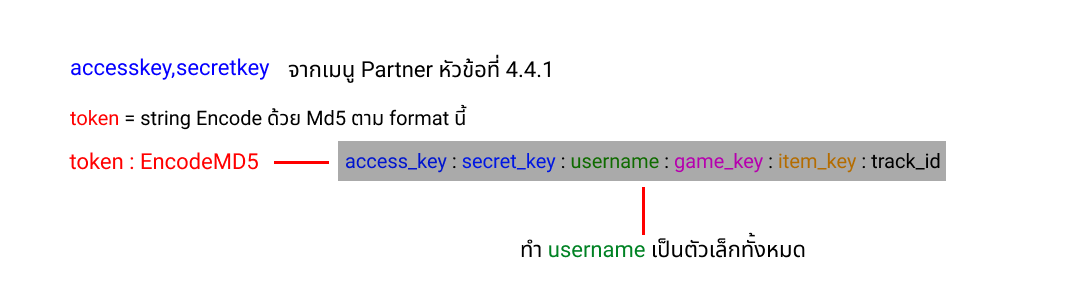
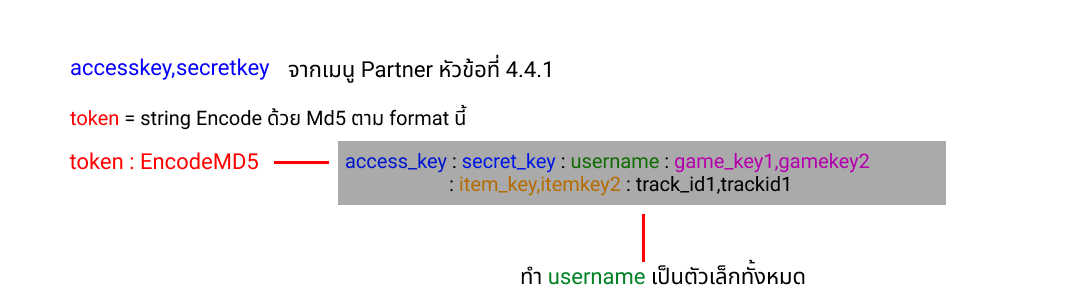
DROP

Changed region(s): [[0.3099, 0.5, 0.8986, 0.6765], [0.4648, 0.7647, 0.7746, 0.9412]]

diff --git a/seamlessapi.php b/seamlessapi.php
@@ -825,6 +825,246 @@
                         </div>
                     </div>
                     <div class="pb-5"></div>
+                    <div class="col-12" id="tabTenMulti" style="margin-left: 10px;">
+                        <lable><b style="color: #0C3175 !important;" set-lan="text:4.5.1 GetUserBalance">4.11
+                                dropItem Multi</b></lable>
+                    </div>
+                    <div class="pb-3"></div>
+                    <div class="btn-toolbar mb-3" role="toolbar">
+                        <div class="divBox">
+                            <div class="col-12">
+                                <label class="txtHead">Method : </label>
+                                <label>Post</label>
+                            </div>
+                            <div class="col-12">
+                                <label class="txtHead">
+                                    Url :
+                                </label>
+                                <label>
+                                    https://test-api.gamemarket.shop/api/v1/gamestore/dropitems
+                                </label>
+                            </div>
+                            <div class="col-12">
+                                <label class="txtHead">
+                                    headers :
+                                </label>
+                                <label>
+                                    content-type application/json
+                                </label>
+                            </div>
+                        </div>
+                        <div class="form-group col-12">
+                            <label set-lan="html:When a player">&nbsp;&nbsp;&nbsp;&nbsp;&nbsp;&nbsp;&nbsp;&nbsp;&nbsp;&nbsp;&nbsp;&nbsp;&nbsp;&nbsp;&nbsp;
+                                เพิ่ม Item ให้ User ใน Gamemarket</label>
+                        </div>
+
+                        <div class="form-group col-12 ex">
+                            <lable><b style="color: #0C3175 !important;" set-lan="text:Request Body">Request Body</b>
+                            </lable>
+                        </div>
+                        <div class="form-group col-1"></div>
+                        <div class="form-group col-9">
+                            <div class="table-wrapper">
+                                <table class="table table-borderless table-striped" id="DataTable351">
+                                    <thead class="rgba-green-slight">
+                                        <tr>
+                                            <th style="width: 20%;" set-lan="html:Parameter" class="bRight txtCenter">
+                                                Parameter</th>
+                                            <th style="width: 15%;" set-lan="html:Type" class="bRight txtCenter">Type
+                                            </th>
+                                            <th style="width: 40%;" set-lan="html:Description" class="bRight txtCenter">Description</th>
+                                            </th>
+                                        </tr>
+                                    </thead>
+                                    <tbody>
+                                        <tr>
+                                            <td class="bRight">access_key</td>
+                                            <td class="bRight">String</td>
+                                            <td class="bRight">Access key form game</td>
+                                        </tr>
+                                        <tr>
+                                            <td class="bRight">username</td>
+                                            <td class="bRight">String</td>
+                                            <td class="bRight">Name Accout User</td>
+                                        </tr>
+                                        <tr>
+                                            <td class="bRight">game_key</td>
+                                            <td class="bRight">Array String</td>
+                                            <td class="bRight">game key form Gamemarket Document 4.5</td>
+                                        </tr>
+                                        <tr>
+                                            <td class="bRight">Item_key</td>
+                                            <td class="bRight">Array String</td>
+                                            <td class="bRight">Item key form Gamemarket Document 4.6</td>
+                                        </tr>
+                                        <tr>
+                                            <td class="bRight">track_id</td>
+                                            <td class="bRight">Array String</td>
+                                            <td class="bRight">Unit Id Drop Item Generate Form Partner</td>
+                                        </tr>
+                                        <tr>
+                                            <td class="bRight" style="font-weight: 900;">token</td>
+                                            <td class="bRight">String</td>
+                                            <td class="bRight">genarate token format md5 </td>
+                                        </tr>
+                                    </tbody>
+                                </table>
+                            </div>
+                        </div>
+                        <label set-lan="html:When a player places">&nbsp;&nbsp;&nbsp;&nbsp;&nbsp;&nbsp;&nbsp;&nbsp;&nbsp;&nbsp;&nbsp;&nbsp;&nbsp;&nbsp;&nbsp;
+                            ตัวอย่าง Generate Token</label>
+                        <div class="col-12">
+                            <img src="./API_files/md2.png" style="width: 90%; margin-left: 10%; border: 1px solid #ced4da;">
+                        </div>
+                        <div class="koh-tab-content col-12">
+                            <div class="koh-tab-content-body">
+                                <div class="koh-faq form-group">
+                                    <div class="koh-faq-question form-group ex">
+                                        <lable class="Point"><b style="color: #0C3175 !important;" set-lan="text:Example Request Body">Example Request Body</b><i class="fa fa-chevron-down" aria-hidden="true" style="margin-left: 2%; font-size: 1rem;"></i></lable>
+                                    </div>
+                                    <div class="koh-faq-answer col-9">
+                                        <pre><code id="351A" style="border-radius: 0.375rem;" class="hljs json">{
+   
+       <span class="hljs-attr">"access_key"</span>: <span class="hljs-string">"9M8jKHT9g@ba()5+-!$G52"</span>,
+       <span class="hljs-attr">"username"</span>: <span class="hljs-string">"korn"</span>,
+        <span class="hljs-attr">"game_key"</span>: [
+            <span class="hljs-string">"4e7a0ba4-f075-4a2b-8dee-f4d351f835ff"</span>,
+            <span class="hljs-string">"4b1e4589-6970-41de-ada1-3c59af6f8d6d"</span>
+    ],
+        <span class="hljs-attr">"item_key"</span>: [
+            <span class="hljs-string"> "d3a2ccfb-ec52-41f1-a9e3-094438fe5eaf"</span>,
+            <span class="hljs-string">"21705380-c950-4b04-bbaa-805f0878604c"</span>
+    ],
+        <span class="hljs-attr">"track_id"</span>: [
+            <span class="hljs-string">"test22071801"</span>,
+            <span class="hljs-string">"test22071802"</span>
+    ],
+       <span class="hljs-attr">"token"</span>: <span class="hljs-string">"cc01a5ea55ffddf724a0e45cba1a1410"</span>,
+   
+}</code></pre>
+                                    </div>
+                                </div>
+                            </div>
+                        </div>
+                        <div class="form-group col-12 ex">
+                            <lable><b style="color: #0C3175 !important;">Response Body</b></lable>
+                        </div>
+                        <div class="form-group col-1"></div>
+                        <div class="form-group col-9">
+                            <div class="table-wrapper">
+                                <table class="table table-borderless table-striped" id="DataTable2">
+                                    <thead class="rgba-green-slight">
+                                        <tr>
+                                            <th style="width: 20%;" set-lan="html:Parameter" class="bRight txtCenter">
+                                                Parameter</th>
+                                            <th style="width: 15%;" set-lan="html:Type" class="bRight txtCenter">Type
+                                            </th>
+                                            <th style="width: 40%;" set-lan="html:Description" class="bRight txtCenter">Description</th>
+                                        </tr>
+                                    </thead>
+                                    <tbody>
+                                        <tr>
+                                            <td class="bRight">code</td>
+                                            <td class="bRight">Number</td>
+                                            <td class="bRight">Result Code Reference.</td>
+                                        </tr>
+                                        <tr>
+                                            <td class="bRight">msg</td>
+                                            <td class="bRight">String</td>
+                                            <td class="bRight">Information message.</td>
+                                        </tr>
+                                    </tbody>
+                                </table>
+                            </div>
+                        </div>
+                        <div class="form-group col-12 ex">
+                            <lable><b style="color: #0C3175 !important;">Service Response Code</b></lable>
+                        </div>
+                        <div class="form-group col-1"></div>
+                        <div class="form-group col-9">
+                            <div class="table-wrapper">
+                                <table class="table table-borderless table-striped" id="DataTable2">
+                                    <thead class="rgba-green-slight">
+                                        <tr>
+                                            <th style="width: 20%;" set-lan="html:Parameter" class="bRight txtCenter">
+                                                Parameter</th>
+                                            <th set-lan="html:Description" class="txtCenter">Description</th>
+                                        </tr>
+                                    </thead>
+                                    <tbody>
+                                        <tr>
+                                            <td class="bRight">0</td>
+                                            <td>Success</td>
+                                        </tr>
+                                        <tr>
+                                            <td class="bRight">1000</td>
+                                            <td>invalid data type</td>
+                                        </tr>
+                                        <tr>
+                                            <td class="bRight">1409</td>
+                                            <td>key not match</td>
+                                        </tr>
+                                        <tr>
+                                            <td class="bRight">1155</td>
+                                            <td>Item not found</td>
+                                        </tr>
+                                        <tr>
+                                            <td class="bRight">1602</td>
+                                            <td>no game account</td>
+                                        </tr>
+                                        <tr>
+                                            <td class="bRight">1604</td>
+                                            <td>track_id already exist</td>
+                                        </tr>
+                                        <tr>
+                                            <td class="bRight">1620</td>
+                                            <td>can not add Item</td>
+                                        </tr>
+                                        <tr>
+                                            <td class="bRight">1651</td>
+                                            <td>invalid game key</td>
+                                        </tr>
+                                    </tbody>
+                                </table>
+                            </div>
+                        </div>
+                        <div class="koh-tab-content col-12">
+                            <div class="koh-tab-content-body">
+                                <div class="koh-faq form-group">
+                                    <div class="koh-faq-question form-group ex">
+                                        <lable class="Point"><b style="color: #0C3175 !important;">Example Service
+                                                Respond Code DropItem Success</b><i class="fa fa-chevron-down" aria-hidden="true" style="margin-left: 2%; font-size: 1rem;"></i></lable>
+                                    </div>
+                                    <div class="koh-faq-answer col-9">
+                                        <pre><code id="351B" style="border-radius: 0.375rem;" class="hljs json">{
+   <span class="hljs-attr">"code"</span>: <span class="hljs-number">0</span>,
+   <span class="hljs-attr">"msg"</span>: <span class="hljs-number">"success"</span>
+}</code></pre>
+                                    </div>
+                                </div>
+                            </div>
+                        </div>
+                        <div class="koh-tab-content col-12">
+                            <div class="koh-tab-content-body">
+                                <div class="koh-faq form-group">
+                                    <div class="koh-faq-question form-group ex">
+                                        <lable class="Point"><b style="color: #0C3175 !important;">Example Service
+                                                Respond Code DropItem Error</b><i class="fa fa-chevron-down" aria-hidden="true" style="margin-left: 2%; font-size: 1rem;"></i></lable>
+                                    </div>
+                                    <div class="koh-faq-answer col-9">
+                                        <pre><code id="351B" style="border-radius: 0.375rem;" class="hljs json">{
+   <span class="hljs-attr">"code"</span>: <span class="hljs-number">1604</span>,
+   <span class="hljs-attr">"msg"</span>: {
+       <span class="hljs-attr">"en"</span>: <span class="hljs-number">track_id already exist</span>,
+       <span class="hljs-attr">"th"</span>: <span class="hljs-number">track_id already exist</span>
+   }
+}</code></pre>
+                                    </div>
+                                </div>
+                            </div>
+                        </div>
+                    </div>
+                    <div class="pb-5"></div>
                     <div class="btn-toolbar mb-12">
                         <div class="col-md-6">
                             <button type="button" class="btn btn-info waves-effect waves-light" onclick="location.href='addItem.php'">

diff --git a/layouts/nav.php b/layouts/nav.php
@@ -100,7 +100,10 @@
                                         <span class="sv-normal" set-lan="text:3.6 GetUserBalance">4.10
                                         Dropitem</span></a>
                                 </li>
-
+                                <li id="manu452"><a class="waves-effect submenu" href="seamlessapi.php#tabTenMulti">
+                                        <span class="sv-normal" set-lan="text:3.6 GetUserBalance">4.11
+                                        Dropitem Multi</span></a>
+                                </li>
                             </ul>
                         </div>
                     </li>
